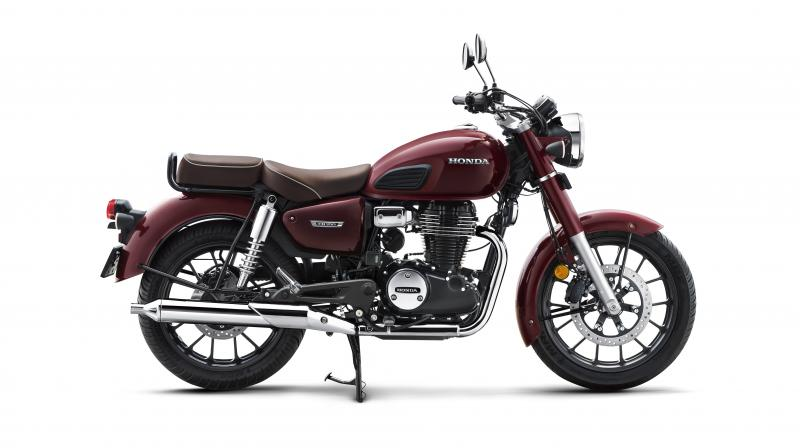
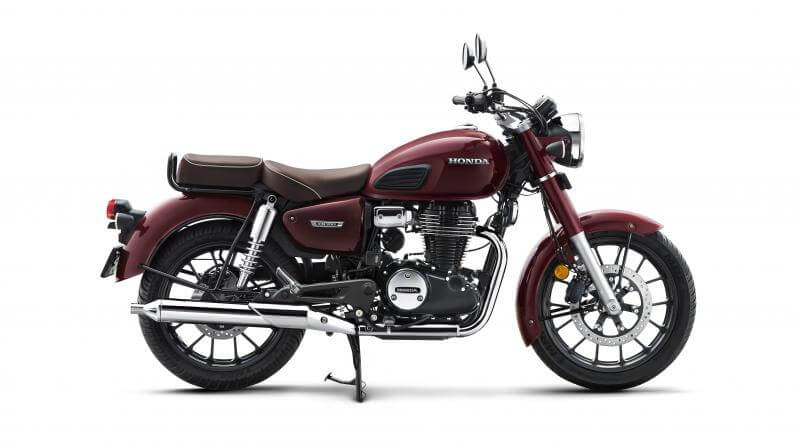
optimized images

diff --git a/public/css/style.css b/public/css/style.css
@@ -247,12 +247,13 @@
 
 .page-header {
     position: relative;
+    /* background-color: #81C408; */
     background: linear-gradient(rgba(0, 0, 0, 0.3), rgba(0, 0, 0, 0.3)),
-        url(../img/bike-hero.jpg);
+        url(../img/bikehero.webp);
     background-position: center 25%;
     background-repeat: no-repeat;
     background-size: cover;
-    height: 300px;
+    /* height: 300px; */
 }
 
 @media (min-width: 992px) {

diff --git a/resources/views/components/faq.blade.php b/resources/views/components/faq.blade.php
@@ -1,0 +1,66 @@
+<div class="container">
+    <div class="row text-center">
+      <h1 class="display-3 fw-bold text-uppercase">faq</h1>
+      <div class="heading-line"></div>
+      <p class="lead">frequently asked questions, get knowledge befere hand</p>
+    </div>
+    <!-- ACCORDION CONTENT  -->
+    <div class="row mt-5">
+      <div class="col-md-12">
+        <div class="accordion" id="accordionExample">
+          <!-- ACCORDION ITEM 1 -->
+          <div class="accordion-item shadow mb-3">
+            <h2 class="accordion-header" id="headingOne">
+              <button class="accordion-button" type="button" data-bs-toggle="collapse" data-bs-target="#collapseOne" aria-expanded="true" aria-controls="collapseOne">
+                What are our privacy policy?
+              </button>
+            </h2>
+            <div id="collapseOne" class="accordion-collapse collapse show" aria-labelledby="headingOne" data-bs-parent="#accordionExample">
+              <div class="accordion-body">
+                <strong>This is the first item's accordion body.</strong> It is hidden by default, until the collapse plugin adds the appropriate classes that we use to style each element. These classes control the overall appearance, as well as the showing and hiding via CSS transitions. You can modify any of this with custom CSS or overriding our default variables. It's also worth noting that just about any HTML can go within the <code>.accordion-body</code>, though the transition does limit overflow.
+              </div>
+            </div>
+          </div>
+             <!-- ACCORDION ITEM 2 -->
+          <div class="accordion-item shadow mb-3">
+            <h2 class="accordion-header" id="headingTwo">
+              <button class="accordion-button collapsed" type="button" data-bs-toggle="collapse" data-bs-target="#collapseTwo" aria-expanded="false" aria-controls="collapseTwo">
+                What are our Terms and Conditions?
+              </button>
+            </h2>
+            <div id="collapseTwo" class="accordion-collapse collapse" aria-labelledby="headingTwo" data-bs-parent="#accordionExample">
+              <div class="accordion-body">
+                <strong>This is the second item's accordion body.</strong> It is hidden by default, until the collapse plugin adds the appropriate classes that we use to style each element. These classes control the overall appearance, as well as the showing and hiding via CSS transitions. You can modify any of this with custom CSS or overriding our default variables. It's also worth noting that just about any HTML can go within the <code>.accordion-body</code>, though the transition does limit overflow.
+              </div>
+            </div>
+          </div>
+             <!-- ACCORDION ITEM 3 -->
+          <div class="accordion-item shadow mb-3">
+            <h2 class="accordion-header" id="headingThree">
+              <button class="accordion-button collapsed" type="button" data-bs-toggle="collapse" data-bs-target="#collapseThree" aria-expanded="false" aria-controls="collapseThree">
+            Sales and Refund?
+              </button>
+            </h2>
+            <div id="collapseThree" class="accordion-collapse collapse" aria-labelledby="headingThree" data-bs-parent="#accordionExample">
+              <div class="accordion-body">
+                <strong>This is the third item's accordion body.</strong> It is hidden by default, until the collapse plugin adds the appropriate classes that we use to style each element. These classes control the overall appearance, as well as the showing and hiding via CSS transitions. You can modify any of this with custom CSS or overriding our default variables. It's also worth noting that just about any HTML can go within the <code>.accordion-body</code>, though the transition does limit overflow.
+              </div>
+            </div>
+          </div>
+             <!-- ACCORDION ITEM 4 -->
+          {{-- <div class="accordion-item shadow mb-3">
+            <h2 class="accordion-header" id="headingFour">
+              <button class="accordion-button collapsed" type="button" data-bs-toggle="collapse" data-bs-target="#collapseFour" aria-expanded="false" aria-controls="collapseFour">
+                Can I be refunded if am not satisfied?
+              </button>
+            </h2>
+            <div id="collapseFour" class="accordion-collapse collapse" aria-labelledby="headingFour" data-bs-parent="#accordionExample">
+              <div class="accordion-body">
+                <strong>This is the third item's accordion body.</strong> It is hidden by default, until the collapse plugin adds the appropriate classes that we use to style each element. These classes control the overall appearance, as well as the showing and hiding via CSS transitions. You can modify any of this with custom CSS or overriding our default variables. It's also worth noting that just about any HTML can go within the <code>.accordion-body</code>, though the transition does limit overflow.
+              </div>
+            </div>
+          </div> --}}
+        </div>
+      </div>
+    </div>
+  </div>

diff --git a/resources/views/components/navbar-guest.blade.php b/resources/views/components/navbar-guest.blade.php
@@ -9,9 +9,12 @@
                         class="text-white">Email@Example.com</a></small>
             </div>
             <div class="top-link pe-2">
-                <a href="#" class="text-white"><small class="text-white mx-2">Privacy Policy</small>/</a>
-                <a href="#" class="text-white"><small class="text-white mx-2">Terms of Use</small>/</a>
-                <a href="#" class="text-white"><small class="text-white ms-2">Sales and Refunds</small></a>
+                <a href="{{ route('about') }}" class="text-white"><small class="text-white mx-2">Privacy
+                        Policy</small>/</a>
+                <a href="{{ route('about') }}" class="text-white"><small class="text-white mx-2">Terms of
+                        Use</small>/</a>
+                <a href="{{ route('about') }}" class="text-white"><small class="text-white ms-2">Sales and
+                        Refunds</small></a>
             </div>
         </div>
     </div>
@@ -29,7 +32,7 @@
                     <a href="{{ route('home.index') }}" class="nav-item nav-link ">Home</a>
 
                     <a href="{{ route('store.index') }}" class="nav-item nav-link">Shop</a>
-                    <a href="{{route ("about")}}" class="nav-item nav-link">About</a>
+                    <a href="{{ route('about') }}" class="nav-item nav-link">About</a>
                     <a href="{{ route('contact') }}" class="nav-item nav-link">Contact</a>
                 </div>
                 <div class="d-flex m-3 me-0">

diff --git a/resources/views/components/footer.blade.php b/resources/views/components/footer.blade.php
@@ -10,10 +10,10 @@
                     </a>
                 </div>
                 <div class="col-lg-6">
-                    <div class="position-relative mx-auto">
+                    {{-- <div class="position-relative mx-auto">
                         <input class="form-control border-0 w-100 py-3 px-4 rounded-pill" type="number" placeholder="Your Email">
                         <button type="submit" class="btn btn-primary border-0 border-secondary py-3 px-4 position-absolute rounded-pill text-white" style="top: 0; right: 0;">Subscribe Now</button>
-                    </div>
+                    </div> --}}
                 </div>
                 <div class="col-lg-3">
                     <div class="d-flex justify-content-end pt-3">
@@ -33,7 +33,7 @@
                         With a wide selection, quality assurance, easy buying process, competitive prices, 
                         convenient selling options, and secure transactions, we make it simple and safe 
                         to find the perfect bike or sell yours hassle-free.</p>
-                    <a href="" class="btn border-secondary py-2 px-4 rounded-pill text-primary">Read More</a>
+                    {{-- <a href="" class="btn border-secondary py-2 px-4 rounded-pill text-primary">Read More</a> --}}
                 </div>
             </div>
             <div class="col-lg-3 col-md-6">

diff --git a/Modules/Product/resources/views/show.blade.php b/Modules/Product/resources/views/show.blade.php
@@ -33,7 +33,7 @@
                                     <img src="{{ asset($product->banner_img) }}" class="img-fluid w-100 rounded-top"
                                         alt="">
                                 @else
-                                    <img src="{{ asset('img/bike.jpg') }}" class="img-fluid w-100 rounded-top"
+                                    <img src="{{ asset('img/bike.webp') }}" class="img-fluid w-100 rounded-top"
                                         alt="">
                                 @endif
                             </div>
@@ -265,7 +265,7 @@
                     @foreach ($relatedProducts as $relatedProduct)
                         <div class="border border-primary rounded position-relative vesitable-item">
                             <div class="vesitable-img">
-                                <img src="{{ asset('img/bike.jpg') }}" class="img-fluid w-100 rounded-top"
+                                <img src="{{ asset('img/bike.webp') }}" class="img-fluid w-100 rounded-top"
                                     alt="">
                             </div>
                             <div class="text-white bg-primary px-3 py-1 rounded position-absolute"

diff --git a/Modules/Homepage/resources/views/about.blade.php b/Modules/Homepage/resources/views/about.blade.php
@@ -35,7 +35,7 @@
                 <h1 class="display-5 mb-5 text-dark text-center">Our Team</h1>
                 <div class="col-sm-6 col-lg-4 mb-3 mb-sm-0">
                     <div class="card" style="width: 25rem">
-                        <img src="{{ asset('/img/profile.png') }}" alt="">
+                        <img src="{{ asset('/img/profile.png') }}" alt="" loading="lazy">
                         <div class="card-body">
                             <h3 class="text-center">
                                 Kiran Shreshta
@@ -79,5 +79,9 @@
     {{-- Testimonial --}}
     <x-testimonial />
     {{-- Testimonial end --}}
+
+    {{-- faq starts --}}
+    <x-faq />
+    {{-- faq ends --}}
 
 </x-app-layout>

diff --git a/Modules/Cart/resources/views/wishlist.blade.php b/Modules/Cart/resources/views/wishlist.blade.php
@@ -28,7 +28,7 @@
                                     <a href="{{ route('product.show', $wishlist->product->id) }}">
                                         {{-- <img src="{{ asset('storage/' . $product->image) }}" class="img-fluid w-100 rounded-top"
                                         alt=""> --}}
-                                        <img src="img/bike.jpg" class="img-fluid w-100 rounded-top" alt="">
+                                        <img src="img/bike.webp" class="img-fluid w-100 rounded-top" alt="">
                                     </a>
                                 </div>
                                 <div class="text-white bg-secondary px-3 py-1 rounded position-absolute"

diff --git a/Modules/Homepage/resources/views/index.blade.php b/Modules/Homepage/resources/views/index.blade.php
@@ -190,7 +190,7 @@
                 </div>
                 <div class="col-lg-6">
                     <div class="position-relative">
-                        <img src="img/bike-banner.png" class="img-fluid w-100 rounded" alt="">
+                        <img src="img/bike-banner.webp" class="img-fluid w-100 rounded" alt="">
                         <div class="d-flex align-items-center justify-content-center bg-white rounded-circle position-absolute"
                             style="width: 140px; height: 140px; top: 0; left: 0;">
                             <h1 style="font-size: 50px;">$600</h1>

diff --git a/resources/views/components/card-product.blade.php b/resources/views/components/card-product.blade.php
@@ -3,7 +3,7 @@
         <div class="fruite-img">
             <a href="{{ route('product.show', $product->id) }}">
                 {{-- <img src="{{ asset('storage/'.$product->image) }}" class="img-fluid w-100 rounded-top" alt="">  --}}
-                <img src="{{ asset('img/bike.jpg') }}" class="img-fluid w-100 rounded-top" alt="bike image">
+                <img src="{{ asset('img/bike.webp') }}" class="img-fluid w-100 rounded-top" alt="bike image">
             </a>
         </div>
         <div class="text-white bg-secondary px-3 py-1 rounded position-absolute" style="top: 10px; left: 10px;">

diff --git a/database/seeders/DatabaseSeeder.php b/database/seeders/DatabaseSeeder.php
@@ -34,7 +34,7 @@ class DatabaseSeeder extends Seeder
         $brands = [
             ['name' => 'Bajaj', 'image' => '/img/icon/bajaj.png'],
             ['name' => 'KTM', 'image' => '/img/icon/ktm.png'],
-            ['name' => 'Yamaha', 'image' => '/img/icon/yamaha.png'],
+            ['name' => 'Yamaha', 'image' => '/img/icon/yamaha.webp'],
             ['name' => 'TVS', 'image' => '/img/icon/tvs.png'],
             ['name' => 'Hero', 'image' => '/img/icon/hero.png'],
             ['name' => 'Honda', 'image' => '/img/icon/honda.png'],

diff --git a/resources/views/components/card-shop.blade.php b/resources/views/components/card-shop.blade.php
@@ -14,7 +14,7 @@
                 @if ($product->banner_img)
                     <img src="{{ asset($product->banner_img) }}" class="img-fluid w-100 rounded-top" alt="">
                 @else
-                    <img src="{{ asset('img/bike.jpg') }}" class="img-fluid w-100 rounded-top" alt="">
+                    <img src="{{ asset('img/bike.webp') }}" class="img-fluid w-100 rounded-top" alt="">
                 @endif
             </a>
         </div>

diff --git a/database/seeders/ProductSeeder.php b/database/seeders/ProductSeeder.php
@@ -49,7 +49,7 @@ class ProductSeeder extends Seeder
             'address' => $product['Location']['City'],
             'deliveryOption' => 'Home Delivery',
             'banner_img' => '/img/cover.jpg',
-            'other_img' => '/img/bike.jpg',
+            'other_img' => '/img/bike.webp',
             'description' => $product['Description'],
             // Add other fields as necessary...
         ]);
